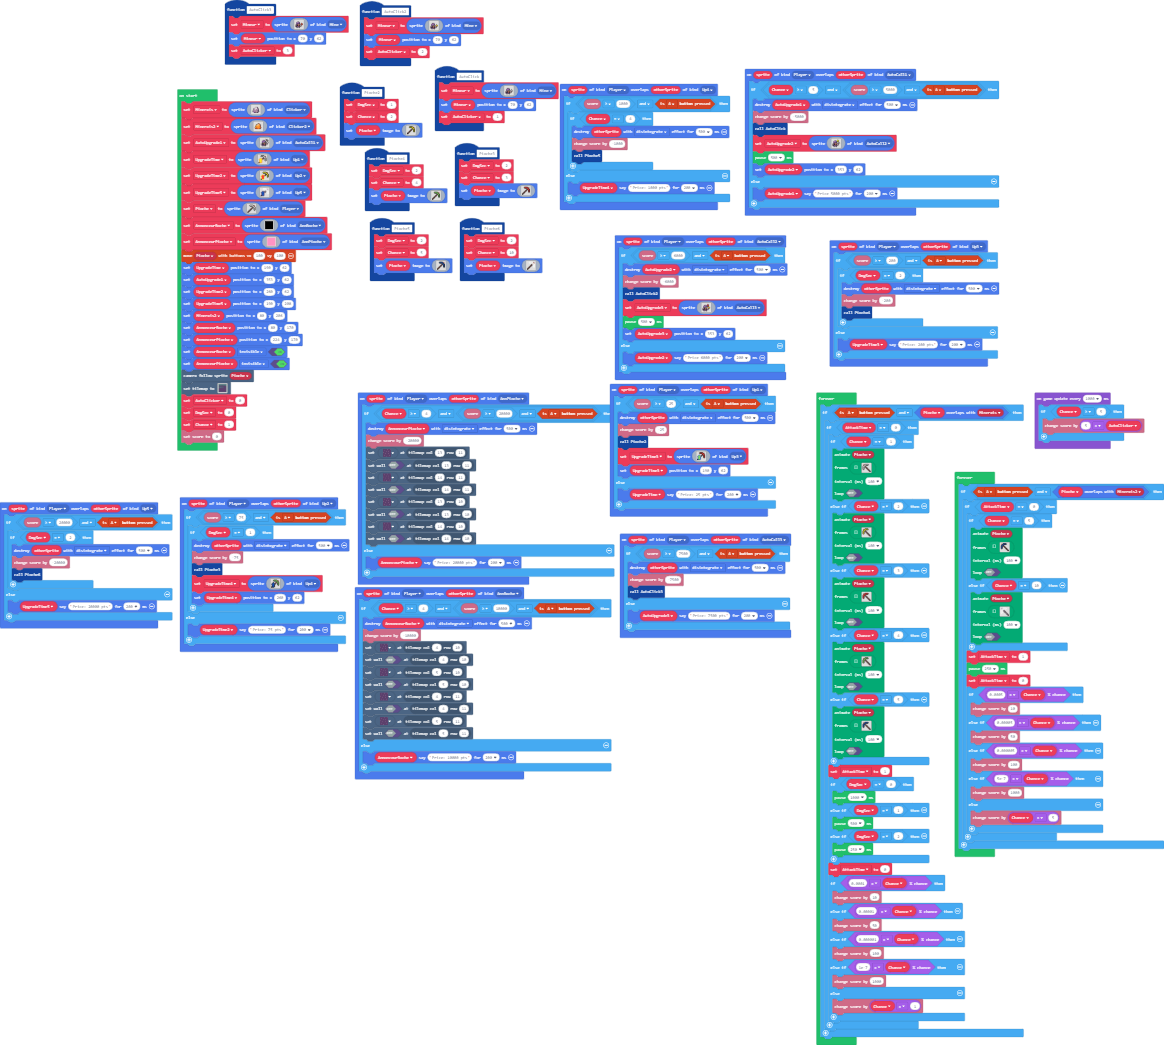
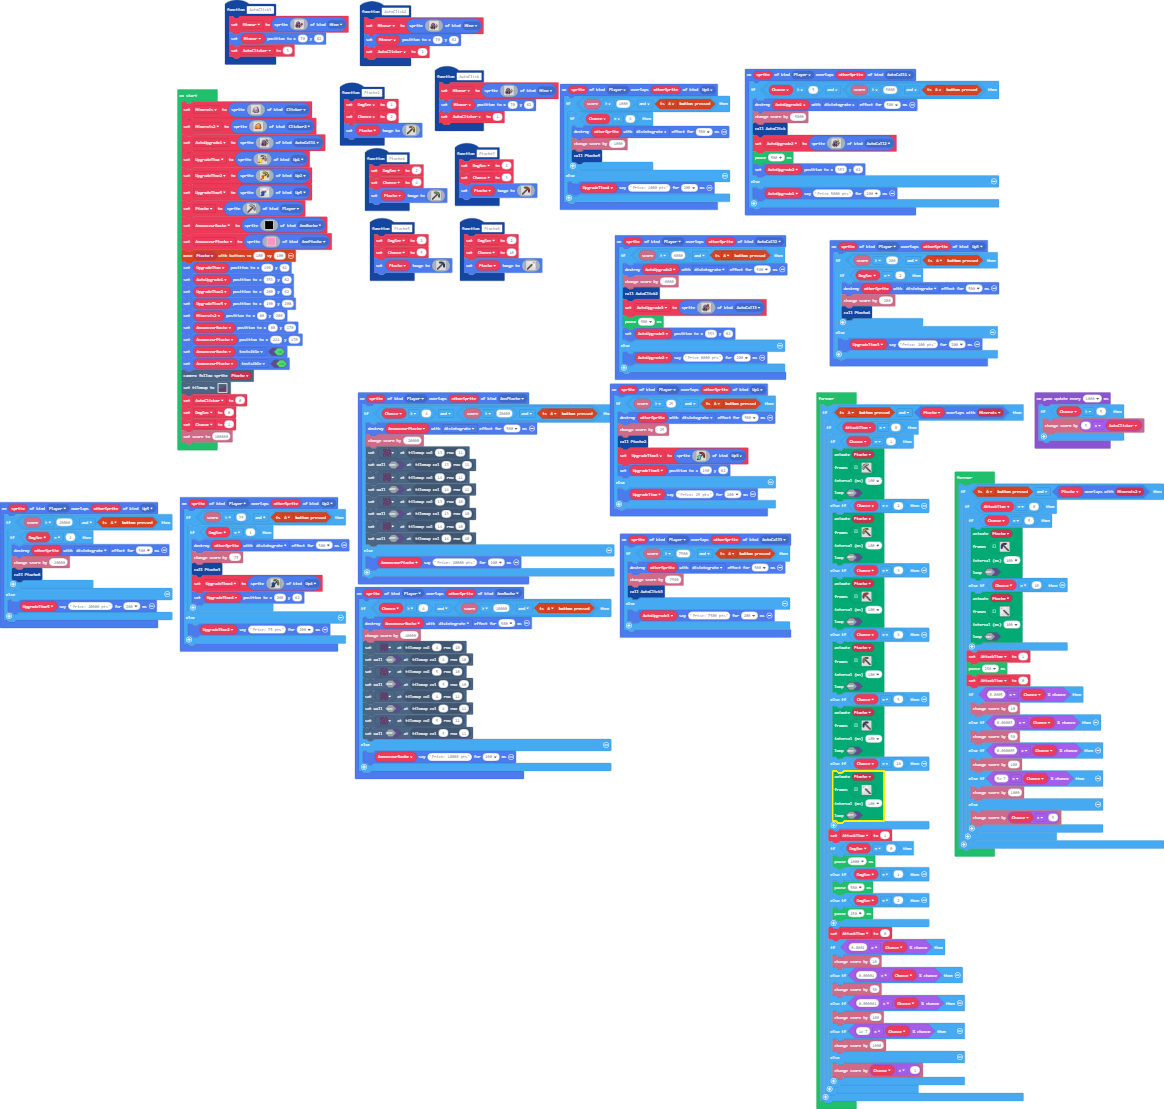
Update main.blocks, main.ts

diff --git a/main.ts b/main.ts
@@ -698,7 +698,7 @@ tiles.setTilemap(tiles.createTilemap(
 AutoClicker = 0
 DmgSec = 0
 Chance = 1
-info.setScore(0)
+info.setScore(100000)
 forever(function () {
     if (controller.A.isPressed() && Pioche.overlapsWith(Minerais)) {
         if (AttackTime == 0) {
@@ -872,6 +872,41 @@ f 8 f . . . . f e f . . .
 . . f e f . . . . . . f . 
 . f e f . . . . . . . . . 
 f e f . . . . . . . . . . 
+f f . . . . . . . . . . . 
+`],
+                100,
+                false
+                )
+            } else if (Chance == 10) {
+                animation.runImageAnimation(
+                Pioche,
+                [img`
+. . . . 1 1 1 1 1 . . . . 
+. b b 1 . . . . . 1 . . . 
+. b 1 . . 1 1 1 1 . . . . 
+. 1 . . 1 . . . . . . . . 
+1 . . 1 b f . . . . . . . 
+1 . 1 . f b f . . . . . . 
+1 . 1 . . f b f . . . . . 
+1 . 1 . . . f b f . . . . 
+1 . 1 . . . . f b f . . . 
+. 1 . . . . . . f b f . . 
+. . . . . . . . . f b f . 
+. . . . . . . . . . f b f 
+. . . . . . . . . . . f f 
+`,img`
+. . . . 1 1 1 1 1 . . . . 
+. . . 1 . . . . . 1 b b . 
+. . . . 1 1 1 1 . . 1 b . 
+. . . . . . . . 1 . . 1 . 
+. . . . . . . f b 1 . . 1 
+. . . . . . f b f . 1 . 1 
+. . . . . f b f . . 1 . 1 
+. . . . f b f . . . 1 . 1 
+. . . f b f . . . . 1 . 1 
+. . f b f . . . . . . 1 . 
+. f b f . . . . . . . . . 
+f b f . . . . . . . . . . 
 f f . . . . . . . . . . . 
 `],
                 100,
